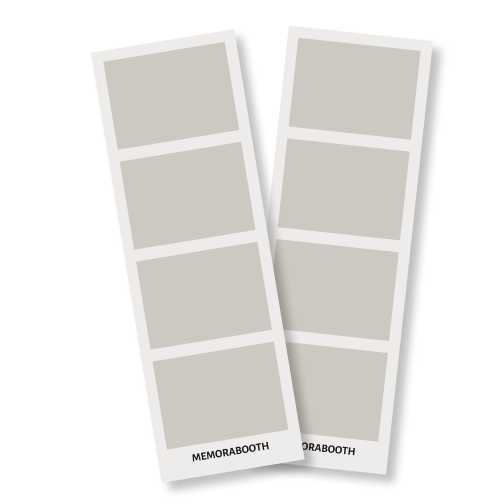
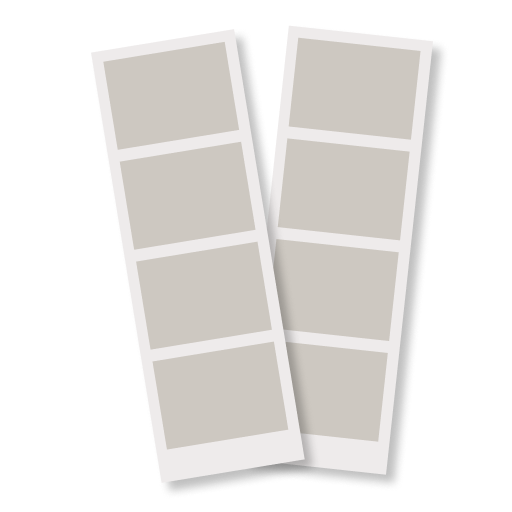
feat: mini photo layout

Changed region(s): [[0.2381, 0.0595, 0.8929, 0.9821], [0.625, 0.2679, 0.6548, 0.2976]]

diff --git a/src/Contexts/DataContext.tsx b/src/Contexts/DataContext.tsx
@@ -82,25 +82,26 @@ export default function DataProvider({ children }: { children: React.ReactNode }
             title: "Big frame.\nOwn it.",
             kind: Layout.Full1x2,
             disabled: false,
-            disclaimer: "1-2 people"
         },
         {
             title: "Four shots.\nMake them count.",
             kind: Layout.Full2x2,
             disabled: false,
-            disclaimer: "1-2 per shot"
         },
         {
             title: "Full frame.\Triple Fun.",
             kind: Layout.Strip1x3,
             disabled: false,
-            disclaimer: "up to 5 people"
         },
         {
             title: "Full frame.\nFull energy.",
             kind: Layout.Strip1x4,
             disabled: false,
-            disclaimer: "up to 5 people"
+        },
+        {
+            title: "Mini Charms.\nDesigned for Keychains.",
+            kind: Layout.Strip1x5,
+            disabled: false,
         },
     ], [])
 

diff --git a/src/Pages/Form/Layout/styles.css b/src/Pages/Form/Layout/styles.css
@@ -27,9 +27,39 @@
     color: var(--accent-1);
 }
 
+.scroll-more {
+    color: var(--accent-1);
+    font-weight: 500;
+    font-size: 2.5vmin;
+    margin-top: -4rem;
+    margin-right: -80%;
+    animation: move 1s cubic-bezier(0.21, 0.78, 0.6, 1.06) alternate infinite;
+}
+
 .layout-container .layouts-container {
+    position: relative;
     display: flex;
-    justify-content: center;
     align-items: center;
     gap: 2rem;
+    width: 100%;
+    padding: 2rem;
+    overflow-x: auto;
+    overflow-y: visible;
+    touch-action: pan-x;
+    -webkit-overflow-scrolling: touch;
+
+    &::-webkit-scrollbar {
+        width: 0;
+        height: 0;
+        background: none;
+    }
+}
+
+@keyframes move {
+    from {
+        transform: translateX(2rem);
+    }
+    to {
+        transform: translateX(0);
+    }
 }

diff --git a/src/Pages/Form/Layout/index.tsx b/src/Pages/Form/Layout/index.tsx
@@ -26,6 +26,7 @@ export default function Layout() {
         <div className="layouts-container">
           {layouts.map((layout, idx) => <LayoutSelectable key={idx} data={layout} selected={options.layout == layout.kind} />)}
         </div>
+        <div className="scroll-more">Scroll for More ⟶</div>
       </div>
       <Footer
         backCallback={() => reset(setOptions, navigate)}

diff --git a/src/types.ts b/src/types.ts
@@ -13,6 +13,7 @@ export enum Layout {
   Full2x2 = "Full2x2",
   Strip1x3 = "Strip1x3",
   Strip1x4 = "Strip1x4",
+  Strip1x5 = "Strip1x5",
 }
 
 export interface Plan {
@@ -31,7 +32,6 @@ export interface Addon {
 export interface LayoutData {
   kind: Layout,
   title: string,
-  disclaimer: string,
   disabled: boolean
 }
 

diff --git a/src/Components/LayoutSelectable/index.tsx b/src/Components/LayoutSelectable/index.tsx
@@ -27,7 +27,6 @@ export default function LayoutSelectable({
           <br />
           {data.title.split(".")[1]}.
         </div>
-        <div className="selectable-disclaimer">{data.disclaimer}</div>
     </button>
   )
 }

diff --git a/src/Components/LayoutSelectable/styles.css b/src/Components/LayoutSelectable/styles.css
@@ -3,6 +3,7 @@
     padding: 1rem;
     border-radius: 4vmin;
     border: 2px solid var(--border-clr);
+    outline: none;
     display: flex;
     flex-direction: column;
     justify-content: center;

diff --git a/src-tauri/src/state/types.rs b/src-tauri/src/state/types.rs
@@ -15,6 +15,8 @@ pub enum LayoutKind {
     Strip1x3,
     #[serde(rename = "Strip1x4")]
     Strip1x4,
+    #[serde(rename = "Strip1x5")]
+    Strip1x5,
 }
 
 impl LayoutKind {
@@ -24,6 +26,7 @@ impl LayoutKind {
             LayoutKind::Full2x2 => LayoutGrid::new(2, 2),
             LayoutKind::Strip1x3 => LayoutGrid::new(1, 3),
             LayoutKind::Strip1x4 => LayoutGrid::new(1, 4),
+            LayoutKind::Strip1x5 => LayoutGrid::new(1, 5),
         }
     }
 
@@ -33,15 +36,17 @@ impl LayoutKind {
             LayoutKind::Full2x2 => LayoutMode::Full,
             LayoutKind::Strip1x3 => LayoutMode::Strip,
             LayoutKind::Strip1x4 => LayoutMode::Strip,
+            LayoutKind::Strip1x5 => LayoutMode::Strip,
         }
     }
 
     pub fn bounds(&self) -> LayoutBounds {
         match self {
-            LayoutKind::Full1x2 => LayoutBounds { borders: [98, 44, 286, 44], gap: 44 },
-            LayoutKind::Full2x2 => LayoutBounds { borders: [18, 18, 118, 18], gap: 18 },
-            LayoutKind::Strip1x3 => LayoutBounds { borders: [181, 50, 377, 50], gap: 18 },
-            LayoutKind::Strip1x4 => LayoutBounds { borders: [44, 18, 112, 18], gap: 12 },
+            LayoutKind::Full1x2 => LayoutBounds { borders: [98, 44, 286, 44], gap: 44, branding: true },
+            LayoutKind::Full2x2 => LayoutBounds { borders: [18, 18, 118, 18], gap: 18, branding: true },
+            LayoutKind::Strip1x3 => LayoutBounds { borders: [181, 50, 377, 50], gap: 18, branding: true },
+            LayoutKind::Strip1x4 => LayoutBounds { borders: [44, 18, 112, 18], gap: 12, branding: true },
+            LayoutKind::Strip1x5 => LayoutBounds { borders: [6, 6, 6, 6], gap: 2, branding: false },
         }
     }
 

diff --git a/src-tauri/src/imaging/compositor.rs b/src-tauri/src/imaging/compositor.rs
@@ -48,7 +48,10 @@ fn compose_portrait(
     }
 
     place_all(&mut canvas, &images, &slots, 0)?;
-    draw_branding(&mut canvas, layout);
+
+    if layout.bounds.branding {
+        draw_branding(&mut canvas, layout);
+    }
 
     Ok(DynamicImage::ImageRgba8(canvas))
 }
@@ -71,7 +74,10 @@ fn compose_landscape(
     }
 
     place_all(&mut canvas, &images, &slots, 0)?;
-    draw_branding(&mut canvas, layout);
+
+    if layout.bounds.branding {
+        draw_branding(&mut canvas, layout);
+    }
 
     let rotated = image::imageops::rotate90(&canvas);
 
@@ -96,7 +102,9 @@ fn compose_strip(
     place_all(&mut canvas, &images, &slots, 0)?;
     place_all(&mut canvas, &images, &slots, strip_width)?;
 
-    draw_branding_strip(&mut canvas, layout);
+    if layout.bounds.branding {
+        draw_branding_strip(&mut canvas, layout);
+    }
 
     Ok(DynamicImage::ImageRgba8(canvas))
 }

diff --git a/src-tauri/src/commands/config.rs b/src-tauri/src/commands/config.rs
@@ -5,7 +5,7 @@ use serde::{Deserialize, Serialize};
 use crate::{Result, state::LayoutKind, utils::assets_dir};
 
 const CONFIG_VERSION: u32 = 1;
-const LAYOUTS_VERSION: u32 = 3;
+const LAYOUTS_VERSION: u32 = 4;
 const PAGES_VERSION: u32 = 1;
 
 #[derive(Serialize, Deserialize)]
@@ -40,7 +40,6 @@ pub struct LayoutData {
     pub kind: LayoutKind,
     pub disabled: bool,
     pub title: String,
-    pub disclaimer: String,
 }
 
 #[tauri::command]

diff --git a/src-tauri/src/imaging/layout.rs b/src-tauri/src/imaging/layout.rs
@@ -28,6 +28,7 @@ impl LayoutGrid {
 pub struct LayoutBounds {
     pub borders: [u32; 4],
     pub gap: u32,
+    pub branding: bool
 }
 
 #[derive(Debug, Clone, Deserialize)]
